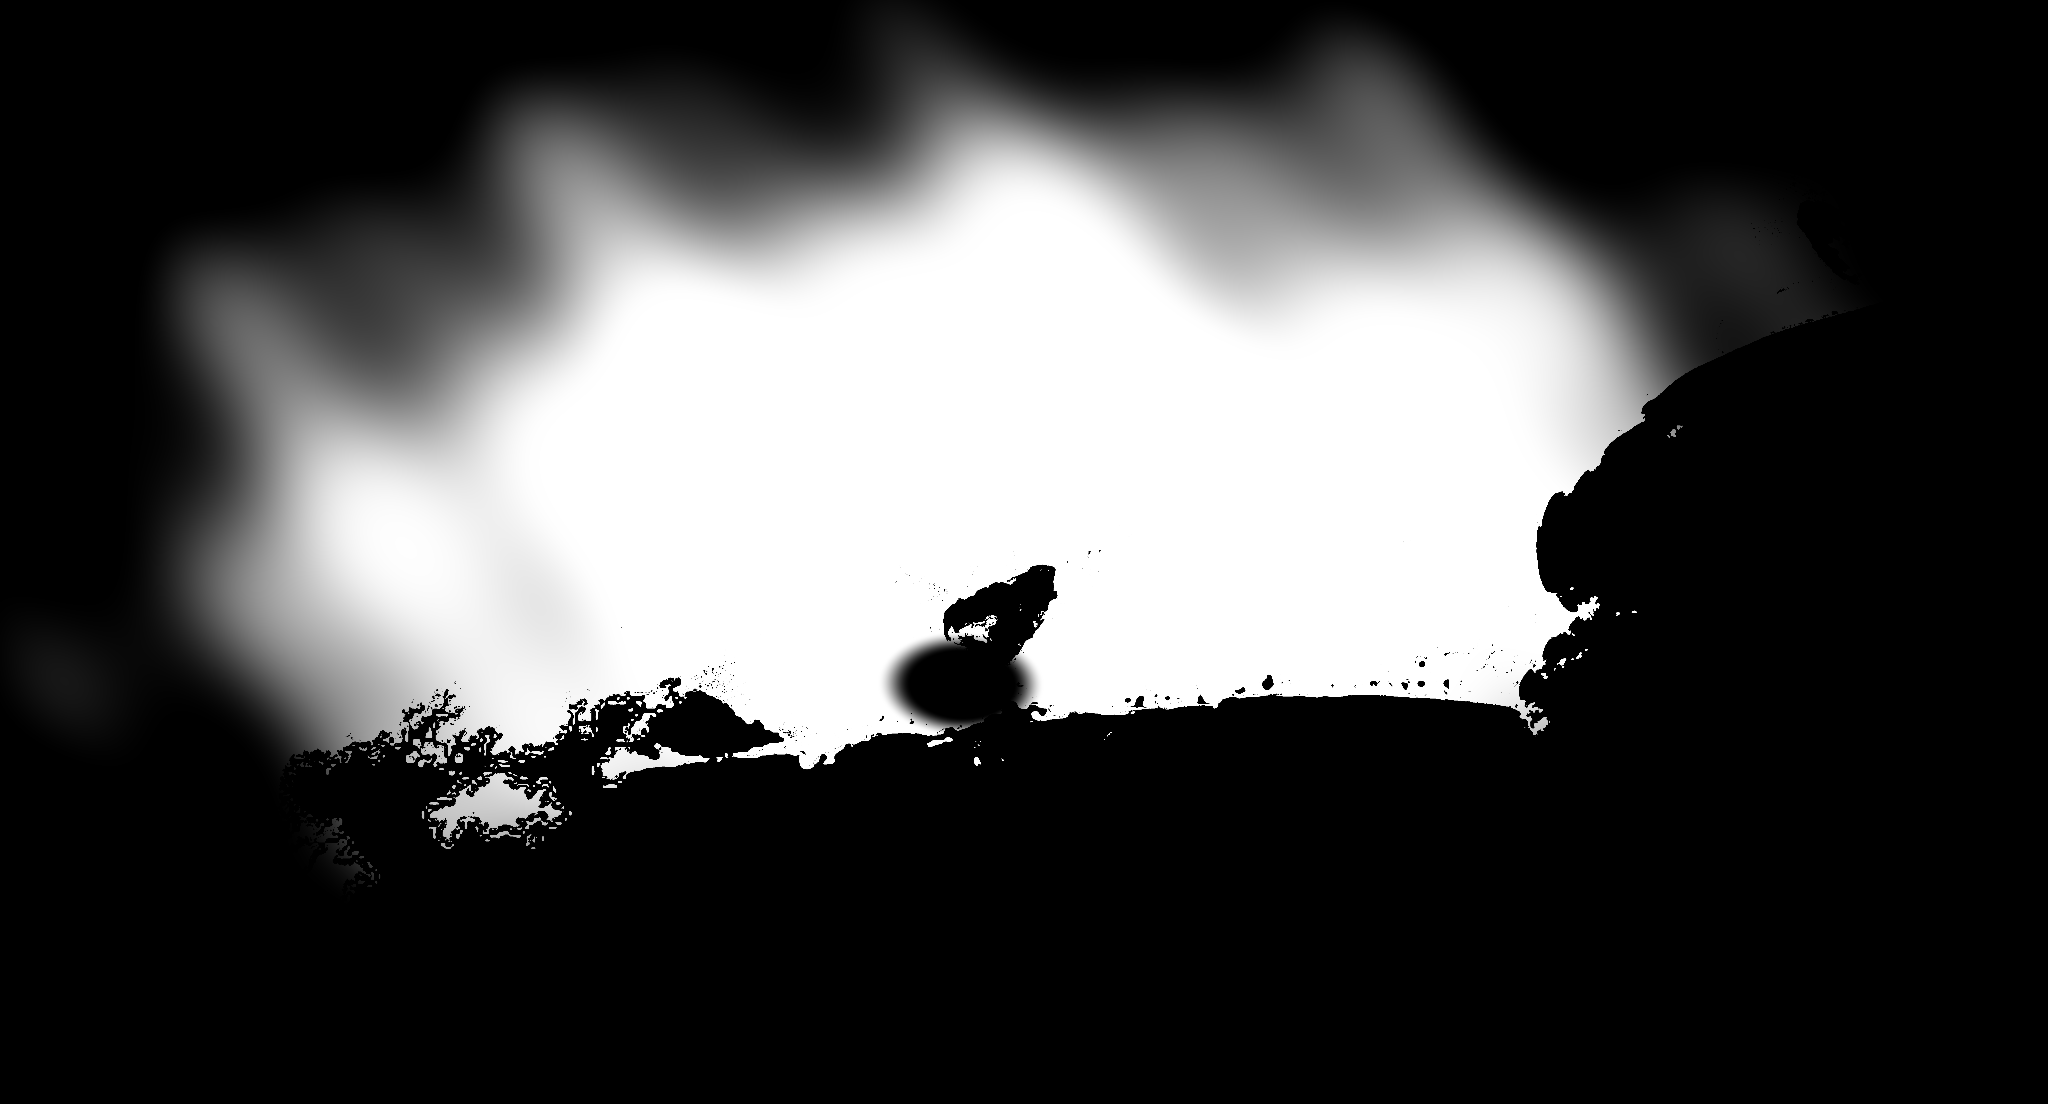
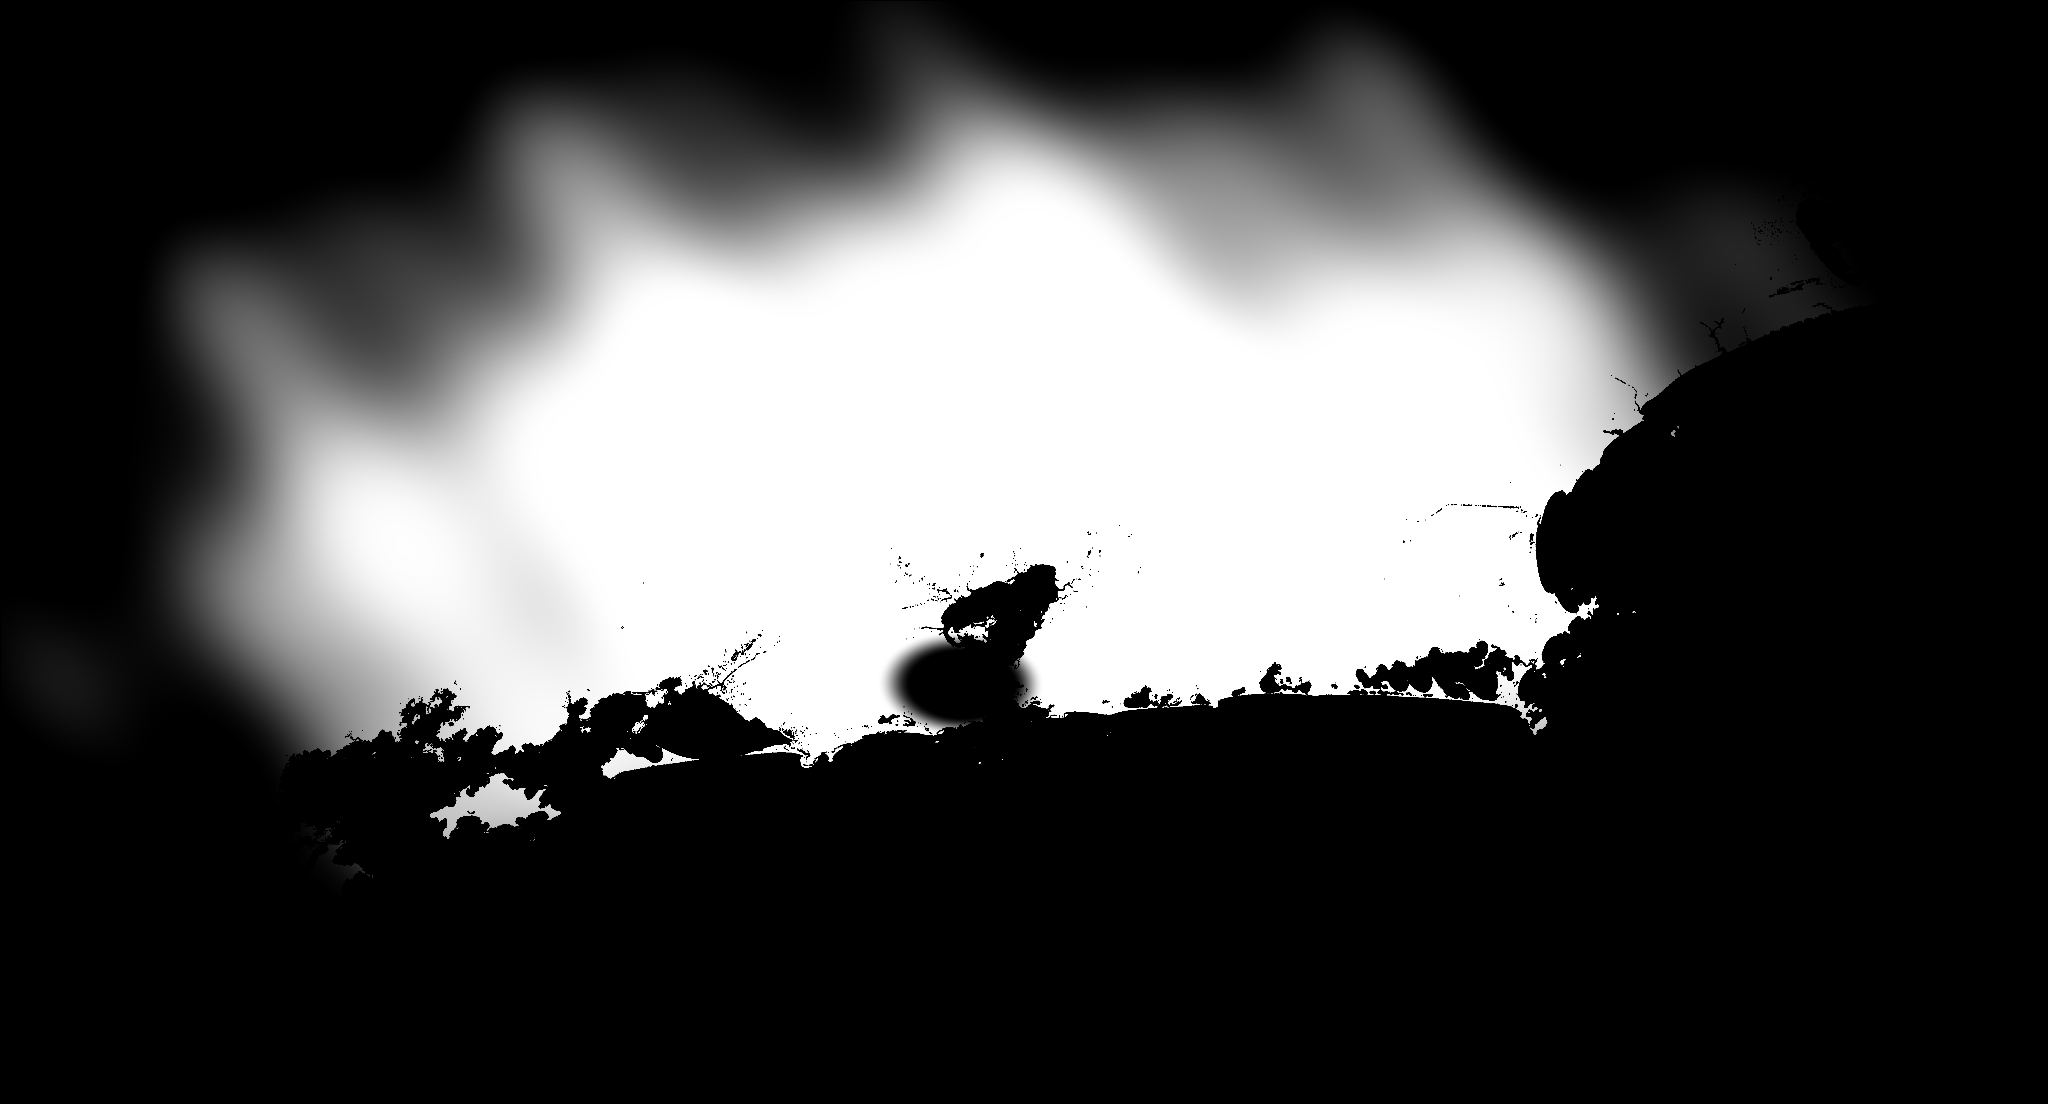
Rio region: tighter coastal land mask (WorldCover water/no-data), compare v3

diff --git a/previews/work/build_region.py b/previews/work/build_region.py
@@ -1,0 +1,76 @@
+# Surround tile around a detailed city: z11 DEM relief + Brazil map colour graded to the city palette.
+import math,os,glob,json,urllib.request,concurrent.futures as cf,numpy as np,cv2,scipy.ndimage as nd
+from PIL import Image
+Image.MAX_IMAGE_PIXELS=None
+LO0,LO1,LA0,LA1=-45.3,-40.9,-23.75,-21.55   # surround
+C0,C1,A0,A1=-43.42,-43.03,-23.03,-22.80      # city bbox
+z=11;tx=lambda lo:int((lo+180)/360*2**z);ty=lambda la:int((1-math.log(math.tan(math.radians(la))+1/math.cos(math.radians(la)))/math.pi)/2*2**z)
+J=[(x,y) for x in range(tx(LO0),tx(LO1)+1) for y in range(ty(LA1),ty(LA0)+1)]
+def g(j):
+  x,y=j;f=f't11/{x}_{y}.png'
+  if not os.path.exists(f):urllib.request.urlretrieve(f'https://s3.amazonaws.com/elevation-tiles-prod/terrarium/{z}/{x}/{y}.png',f)
+list(cf.ThreadPoolExecutor(16).map(g,J))
+T={}
+for f in [f't11/{x}_{y}.png' for x,y in J]:
+  x,y=map(int,os.path.basename(f)[:-4].split('_'));a=np.asarray(Image.open(f).convert('RGB')).astype(np.float64);T[(x,y)]=a[...,0]*256+a[...,1]+a[...,2]/256-32768
+xs=sorted({k[0] for k in T});ys=sorted({k[1] for k in T});M=np.zeros((len(ys)*256,len(xs)*256))
+for (x,y),a in T.items():M[(y-ys[0])*256:(y-ys[0]+1)*256,(x-xs[0])*256:(x-xs[0]+1)*256]=a
+def grid(w,h):
+  lon=LO0+(np.arange(w)+.5)/w*(LO1-LO0);lat=LA1-(np.arange(h)+.5)/h*(LA1-LA0);return np.meshgrid(lon,lat)
+def dem(w,h):
+  LON,LAT=grid(w,h);n=2**z*256;X=(LON+180)/360*n-xs[0]*256;la=np.radians(LAT);Y=(1-np.log(np.tan(la)+1/np.cos(la))/np.pi)/2*n-ys[0]*256
+  return nd.map_coordinates(M,[Y-.5,X-.5],order=3,mode='nearest')
+KX=(LO1-LO0)*math.cos(math.radians(22.9))*111.32;KZ=(LA1-LA0)*110.6
+TW=6144;TH=int(TW*KZ/KX);el=dem(TW,TH)
+# Brazil map colour + mask (linear lon/lat over shape bbox)
+sh=json.load(open('../../brazil/shape.json'));W0,E0,S0,N0=sh['bbox']
+c3=np.asarray(Image.open('../../brazil/c3.jpg').convert('RGB')).astype(np.float32);mk=np.asarray(Image.open('../../brazil/mask.png').convert('L')).astype(np.float32)/255
+LON,LAT=grid(TW,TH)
+def samp(img,):
+  X=(LON-W0)/(E0-W0)*img.shape[1]-.5;Y=(N0-LAT)/(N0-S0)*img.shape[0]-.5
+  return cv2.remap(img,X.astype(np.float32),Y.astype(np.float32),cv2.INTER_CUBIC)
+col=samp(c3);pm=samp(mk)
+land=(el>.5)&~((col[...,2]>col[...,1]*1.05)&(el<8));land=nd.binary_opening(land,iterations=1)
+# hillshade bake like the city
+VE=1.6;px=KX*1000/TW;gy,gx=np.gradient(nd.gaussian_filter(el,.8),px);L=np.array([-.6,-.55,.6]);L/=np.linalg.norm(L)
+nx,ny=-gx*VE,-gy*VE;nn=np.sqrt(nx**2+ny**2+1);hs=(nx*L[0]+ny*L[1]+L[2])/nn
+ao=np.clip(1-(nd.gaussian_filter(el,8)-el)/120,.75,1.05)
+img=col*(.72+.38*np.clip(hs,0,1))[...,None]*ao[...,None]
+rng=np.random.default_rng(3);gr=cv2.resize(rng.random((TH//2,TW//2)).astype(np.float32),(TW,TH));img*=1+(gr[...,None]-.5)*.06
+exec(open('stylise.py').read())
+# grade to the city texture over the overlap (land only)
+rc=np.asarray(Image.open('../../brazil-showcase/rio_c.jpg').convert('RGB')).astype(np.float32);rw=np.asarray(Image.open('../../brazil-showcase/rio_w.png'))[...,0]
+rws=cv2.resize(rw,(rc.shape[1],rc.shape[0]),interpolation=cv2.INTER_NEAREST)<128
+i0=int((LA1-A1)/(LA1-LA0)*TH);i1=int((LA1-A0)/(LA1-LA0)*TH);j0=int((C0-LO0)/(LO1-LO0)*TW);j1=int((C1-LO0)/(LO1-LO0)*TW)
+sub=img[i0:i1,j0:j1];sl=land[i0:i1,j0:j1]
+for k in []:
+  a=sub[...,k][sl];b=rc[...,k][rws]
+  img[...,k]=(img[...,k]-a.mean())/a.std()*b.std()*.85+b.mean()
+print('grade',[round(float(x),1) for x in rc[rws].mean(0)])
+LONf,LATf=grid(TW,TH);cu_=(LONf-C0)/(C1-C0);cv_=(LATf-A0)/(A1-A0);cd_=np.minimum(np.minimum(cu_,1-cu_),np.minimum(cv_,1-cv_))
+wgt=np.clip(cd_/.3,0,1);wgt=wgt*wgt*(3-2*wgt)
+rcs=cv2.resize(rc,(j1-j0,i1-i0),interpolation=cv2.INTER_AREA);blk=img[i0:i1,j0:j1];w_=wgt[i0:i1,j0:j1,None]*sl[...,None]
+img[i0:i1,j0:j1]=blk*(1-w_)+rcs*w_
+img=np.clip(img,0,255);img[~land]=[30,60,80];print("img ok")
+Image.fromarray(img.astype(np.uint8)).save('../../brazil-showcase/rio_sc.jpg',quality=88)
+# organic radial masks (same formula in GLSL): e=|(LL-ctr)/half|+k*nz
+nz=lambda lo,la:.5*np.sin(lo*7.1+la*3.3)+.3*np.sin(-lo*4.3+la*9.7+1.3)+.2*np.sin(lo*13.+la*11.+2.)
+ss=lambda a,b,x:(lambda t:t*t*(3-2*t))(np.clip((x-a)/(b-a),0,1))
+def ell(LON,LAT,b,k):cx,cy=(b[0]+b[1])/2,(b[2]+b[3])/2;hx,hy=(b[1]-b[0])/2,(b[3]-b[2])/2;return np.hypot((LON-cx)/hx,(LAT-cy)/hy)+k*nz(LON,LAT)
+SB=[LO0,LO1,LA0,LA1];CB=[C0,C1,A0,A1]
+AW=2048;AH=int(AW*TH/TW);LON,LAT=grid(AW,AH)
+cityA=1-ss(.6,.95,ell(LON,LAT,CB,.1))
+la=cv2.resize(land.astype(np.float32),(AW,AH),interpolation=cv2.INTER_AREA)
+al=(1-ss(.5,.97,ell(LON,LAT,SB,.12)))*(1-cityA)*ss(.35,.65,la)
+Image.fromarray((np.clip(al,0,1)*255).astype(np.uint8)).save('../../brazil-showcase/rio_sa.png')
+# city feather map over city bbox (+ land only, so tile water never renders)
+FW=1024;FH=int(FW*rc.shape[0]/rc.shape[1]);lon=C0+(np.arange(FW)+.5)/FW*(C1-C0);lat=A1-(np.arange(FH)+.5)/FH*(A1-A0);CL,CA=np.meshgrid(lon,lat)
+wl=cv2.resize((rw<128).astype(np.float32),(FW,FH),interpolation=cv2.INTER_AREA)
+fa=(1-ss(.6,.95,ell(CL,CA,CB,.1)))*ss(.3,.7,wl)
+Image.fromarray((np.clip(fa,0,1)*255).astype(np.uint8)).save('../../brazil-showcase/rio_fa.png')
+GW=1400;GH=int(GW*KZ/KX);eg=cv2.resize(el.astype(np.float32),(GW,GH),interpolation=cv2.INTER_AREA)
+lg=cv2.resize(land.astype(np.float32),(GW,GH),interpolation=cv2.INTER_AREA)>.5
+eg=np.where(lg,np.maximum(eg,.5),np.minimum(eg,-2)*.35)
+np.clip((eg+60)*50,0,65535).astype(np.uint16).tofile('../../brazil-showcase/rio_sh.bin')
+json.dump(dict(GW=GW,GH=GH,U=.00016,bbox=[LO0,LO1,LA0,LA1]),open('../../brazil-showcase/rio_smeta.json','w'))
+print(len(J),'tiles',TW,TH,GW,GH)

diff --git a/previews/work/stylise.py b/previews/work/stylise.py
@@ -1,0 +1,66 @@
+# Civ-VI-like stylised land cover (ESA WorldCover 2021, CC-BY 4.0) – no hex grid, real geography kept
+import rasterio
+from rasterio.enums import Resampling
+from scipy.spatial import cKDTree
+print('stylise',TW,TH)
+cls=np.zeros((TH,TW),np.uint8)
+for t,(w,e) in {'S24W048':(-48,-45),'S24W045':(-45,-42),'S24W042':(-42,-39)}.items():
+  lo0,lo1=max(w,LO0),min(e,LO1)
+  if lo0>=lo1:continue
+  with rasterio.open(f'../wc/{t}.tif') as R:
+    win=rasterio.windows.from_bounds(lo0,LA0,lo1,LA1,R.transform)
+    j0=int(round((lo0-LO0)/(LO1-LO0)*TW));j1=int(round((lo1-LO0)/(LO1-LO0)*TW))
+    cls[:,j0:j1]=R.read(1,window=win,out_shape=(TH,j1-j0),resampling=Resampling.mode)
+print('classes',np.unique(cls,return_counts=True))
+rng=np.random.default_rng(7)
+def fbm(sc,oct=4,seed=0):
+  r=np.random.default_rng(seed);o=np.zeros((TH,TW),np.float32);a=1;t=0
+  for i in range(oct):
+    w=max(2,int(TW/sc));h=max(2,int(TH/sc));o+=a*cv2.resize(r.random((h,w)).astype(np.float32),(TW,TH),interpolation=cv2.INTER_CUBIC);t+=a;a*=.5;sc/=2.2
+  return o/t
+# --- field patchwork: anisotropic voronoi cells (~0.5-1 km) with hedgerow borders
+n=int(TW*TH/110);P=rng.random((n,2))*[TW,TH];ang=fbm(600,2,1)*3.0
+tree=cKDTree(P*[1,1.7]);fid=np.zeros((TH,TW),np.int32);bd=np.zeros((TH,TW),np.float32)
+yy,xx=np.mgrid[0:256,0:TW].astype(np.float32)
+for r0 in range(0,TH,256):
+  h=min(256,TH-r0);q=np.stack([xx[:h].ravel(),(yy[:h]+r0).ravel()*1.7],1)
+  d,i=tree.query(q,k=2,workers=8);fid[r0:r0+h]=i[:,0].reshape(h,TW);bd[r0:r0+h]=(d[:,1]-d[:,0]).reshape(h,TW)
+crop=np.array([[196,170,92],[160,158,70],[126,150,62],[150,112,70],[182,160,84],[108,140,58],[200,184,110],[140,128,66]],np.float32)
+past=np.array([[132,160,78],[118,150,70],[150,170,90],[108,138,64],[140,156,84]],np.float32)
+ck=rng.integers(0,len(crop),n);pk=rng.integers(0,len(past),n);tint=(rng.random(n)*.14+.93).astype(np.float32)
+hedge=1-np.exp(-bd/1.1)  # 0 at border
+cropC=crop[ck][fid]*tint[fid][...,None];pastC=past[pk][fid]*tint[fid][...,None]
+# subtle furrow stripes inside crop fields (direction per field)
+fa_=(rng.random(n)*np.pi).astype(np.float32)[fid];Y_,X_=np.mgrid[0:TH,0:TW].astype(np.float32)
+stripe=.5+.5*np.sin((X_*np.cos(fa_)+Y_*np.sin(fa_))*2.2);del X_,Y_,fa_
+cropC*=(.94+.08*stripe)[...,None]
+hedgeC=np.array([62,92,44],np.float32)
+cropC=cropC*hedge[...,None]+hedgeC*(1-hedge[...,None]);pastC=pastC*(.6+.4*hedge[...,None])+hedgeC*(.4-.4*hedge[...,None])
+# --- forest: lush stylised canopy clumps
+f1=fbm(TW/3,3,2);f2=fbm(TW/9,2,3)
+clump=np.clip((f1-.35)*2.2,0,1)
+forC=np.stack([38+30*clump+14*f2,86+46*clump+18*f2,40+22*clump],-1).astype(np.float32)
+# --- towns: warm terracotta/cream blocks with grey streets
+bl=fbm(TW/1.5,2,4);blk=(nd.uniform_filter(rng.random((TH//2,TW//2)).astype(np.float32),2));blk=cv2.resize(blk,(TW,TH),interpolation=cv2.INTER_NEAREST)
+townC=np.stack([178-36*blk+16*bl,160-34*blk+10*bl,140-30*blk],-1).astype(np.float32)
+street=((np.arange(TW)%5==0)[None,:]|(np.arange(TH)%5==0)[:,None]);townC[street]=[150,146,140]
+out=np.zeros((TH,TW,3),np.float32);ws=np.zeros((TH,TW),np.float32)
+def acc(c,C):
+  global out,ws
+  w=nd.gaussian_filter(np.isin(cls,c).astype(np.float32),1.2);out+=C*w[...,None];ws+=w
+acc([20],forC*.5+pastC*.5);acc([10],forC);del forC;acc([30,100],pastC);del pastC;acc([40],cropC);del cropC;acc([50],townC);del townC
+for c,v in [([60,70],[176,160,130]),([80],[38,66,92]),([90],[78,112,80]),([95],[50,96,64])]:
+  w=nd.gaussian_filter(np.isin(cls,c).astype(np.float32),1.2);out+=np.array(v,np.float32)*w[...,None];ws+=w
+out/=np.maximum(ws,1e-3)[...,None];
+miss=ws<.05;out[miss]=col[miss]
+# painterly light: warm lit / cool shade, soft AO
+lit=np.clip(hs,0,1)[...,None];warm=np.array([1.06,1.02,.92],np.float32);cool=np.array([.78,.84,1.0],np.float32)
+out=out*(cool+(warm-cool)*lit)*(.70+.40*lit)*ao[...,None]
+# altitude tint: higher ground slightly cooler/greyer (serra)
+hi=np.clip((el-900)/900,0,1)[...,None];g_=out.mean(2,keepdims=True);out=out*(1-.3*hi)+g_*.3*hi
+out=cv2.bilateralFilter(np.clip(out,0,255).astype(np.uint8),5,18,3).astype(np.float32)
+# fade style toward the Brazil host map at the outer ring so the ellipse edge is invisible
+LONs,LATs=grid(TW,TH);eo=np.hypot((LONs-(LO0+LO1)/2)/((LO1-LO0)/2),(LATs-(LA0+LA1)/2)/((LA1-LA0)/2))
+wst=(1-np.clip((eo-.55)/.4,0,1))[...,None];base=col*(.72+.38*lit)*ao[...,None]
+img=out*wst+base*(1-wst);del out,base,LONs,LATs,eo
+np.save('/tmp/cls.npy',cls)

diff --git a/previews/work/rio/build_region.py b/previews/work/rio/build_region.py
@@ -60,7 +60,7 @@ def ell(LON,LAT,b,k):cx,cy=(b[0]+b[1])/2,(b[2]+b[3])/2;hx,hy=(b[1]-b[0])/2,(b[3]
 SB=[LO0,LO1,LA0,LA1];CB=[C0,C1,A0,A1]
 AW=2048;AH=int(AW*TH/TW);LON,LAT=grid(AW,AH)
 cityA=1-ss(.6,.95,ell(LON,LAT,CB,.1))
-la=cv2.resize(land.astype(np.float32),(AW,AH),interpolation=cv2.INTER_AREA)
+land2=land&~((cls==0)|((cls==80)&(el<6)));la=cv2.resize(nd.binary_erosion(land2,iterations=1).astype(np.float32),(AW,AH),interpolation=cv2.INTER_AREA)
 al=(1-ss(.5,.97,ell(LON,LAT,SB,.12)))*(1-cityA)*ss(.6,.9,la)
 Image.fromarray((np.clip(al,0,1)*255).astype(np.uint8)).save('../../brazil-showcase/rio_sa.png')
 # city feather map over city bbox (+ land only, so tile water never renders)
